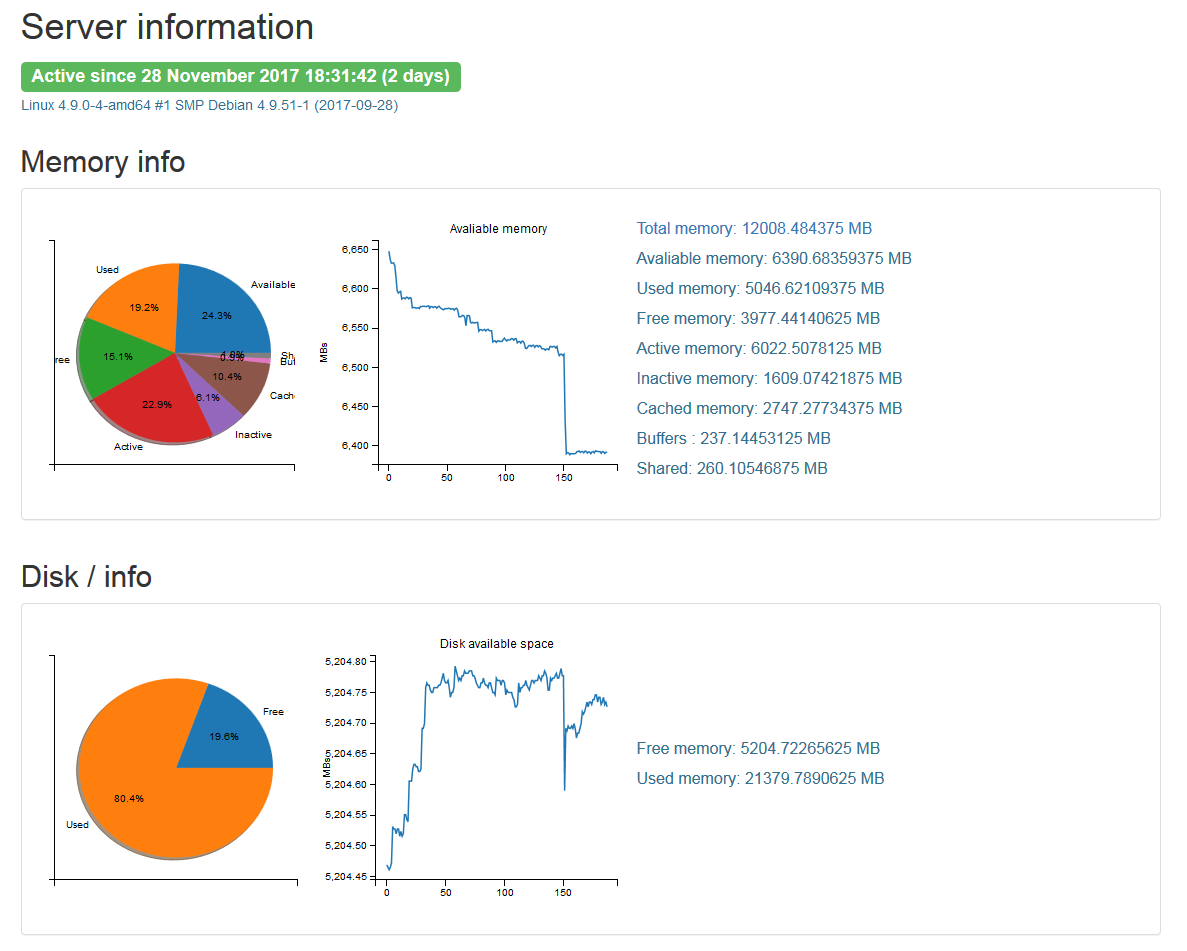
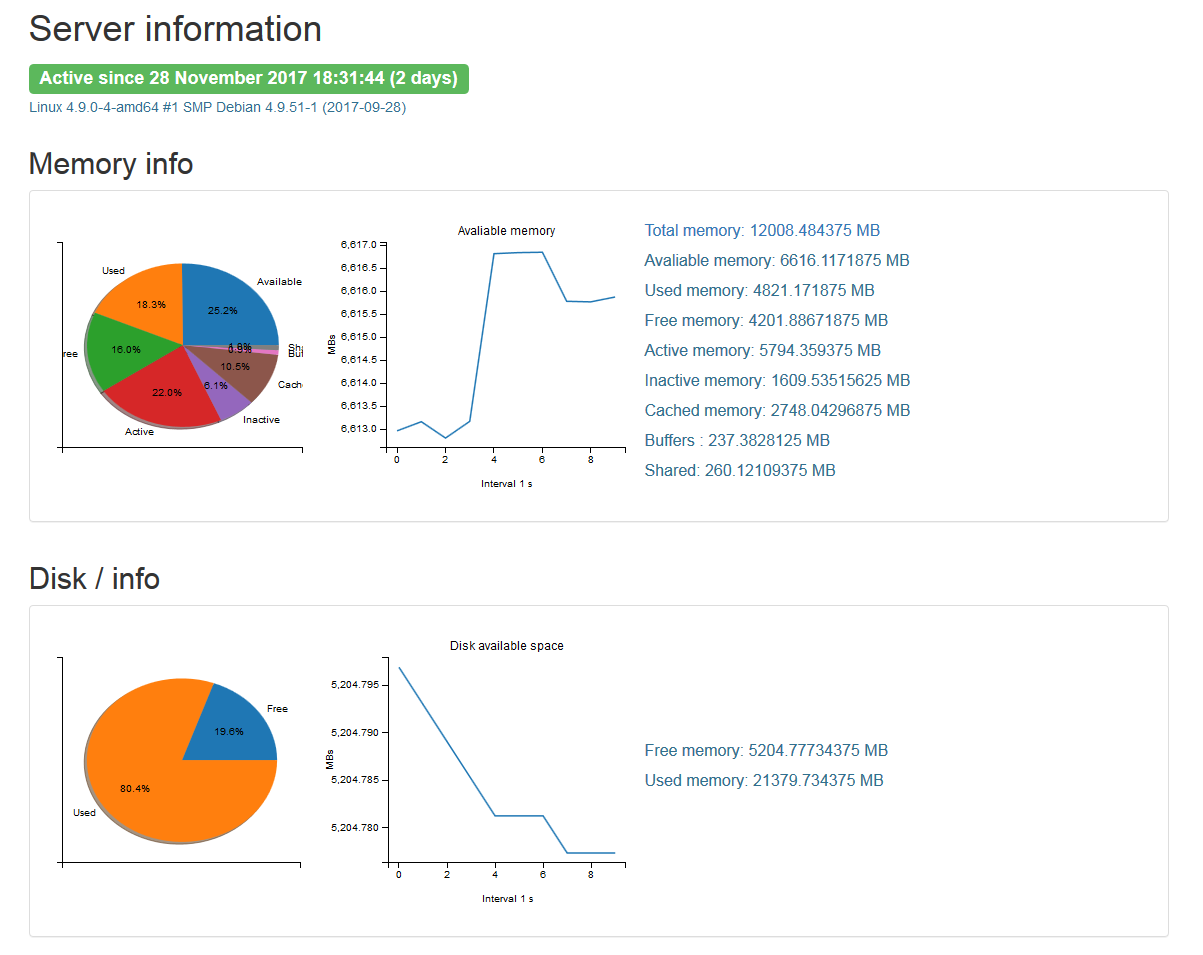
Refactoring and new screenshot.

diff --git a/lib/info.py b/lib/info.py
@@ -18,6 +18,19 @@ def get_panel(header, text):
             "</div>", header, text)
 
 
+def get_contents(graph, text):
+    return str.format("<TABLE>"
+                      "<TR>"
+                      "<TD> {0} </TD>" 
+                      "<TD>" 
+                      "<DIV class\"container\"> {1} </DIV>" 
+                      " </TD>" 
+                      "</TR>" 
+                      "</TABLE>",
+                      graph,
+                      text)
+
+
 def get_disks_usage():
     return_text = ""
     num = 0
@@ -34,6 +47,7 @@ def get_disks_usage():
         plt.subplot(122)
         plt.plot(list(map(itemgetter(num), timemon.disk_usage)))
         plt.ylabel('MBs')
+        plt.xlabel(str.format('Interval {0} s', cfg.time_step))
         plt.title('Disk available space')
         plt.tight_layout()
         html_graph = mpld3.fig_to_html(fig)
@@ -43,18 +57,7 @@ def get_disks_usage():
                           "</div>",
                           di.free / 1024 / 1024,
                           di.used / 1024 / 1024)
-        contents = "<TABLE>" \
-                   "<TR>" \
-                   "<TD>" \
-                   + html_graph \
-                   + "</TD>" \
-                     "<TD>" \
-                   + "<DIV class\"container\" " \
-                   + text \
-                   + "</DIV>" \
-                     " </TD>" \
-                     "</TR>" \
-                     "</TABLE>"
+        contents = get_contents(html_graph, text)
         return_text = return_text + get_panel(str.format("Disk {0} info", dp.mountpoint), contents)
         num = num + 1
     return return_text
@@ -95,21 +98,11 @@ def get_mem_info():
     plt.subplot(122)
     plt.plot(timemon.mem_info)
     plt.ylabel('MBs')
+    plt.xlabel(str.format('Interval {0} s', cfg.time_step))
     plt.title('Avaliable memory')
     plt.tight_layout()
     html_graph = mpld3.fig_to_html(fig)
-    contents = "<TABLE>" \
-               "<TR>" \
-               "<TD>" \
-               + html_graph \
-               + "</TD>" \
-               "<TD>" \
-               + "<DIV class\"container\" " \
-               + text   \
-               + "</DIV>" \
-               " </TD>" \
-               "</TR>" \
-               "</TABLE>"
+    contents = get_contents(html_graph, text)
     return get_panel("Memory info", contents)
 
 
